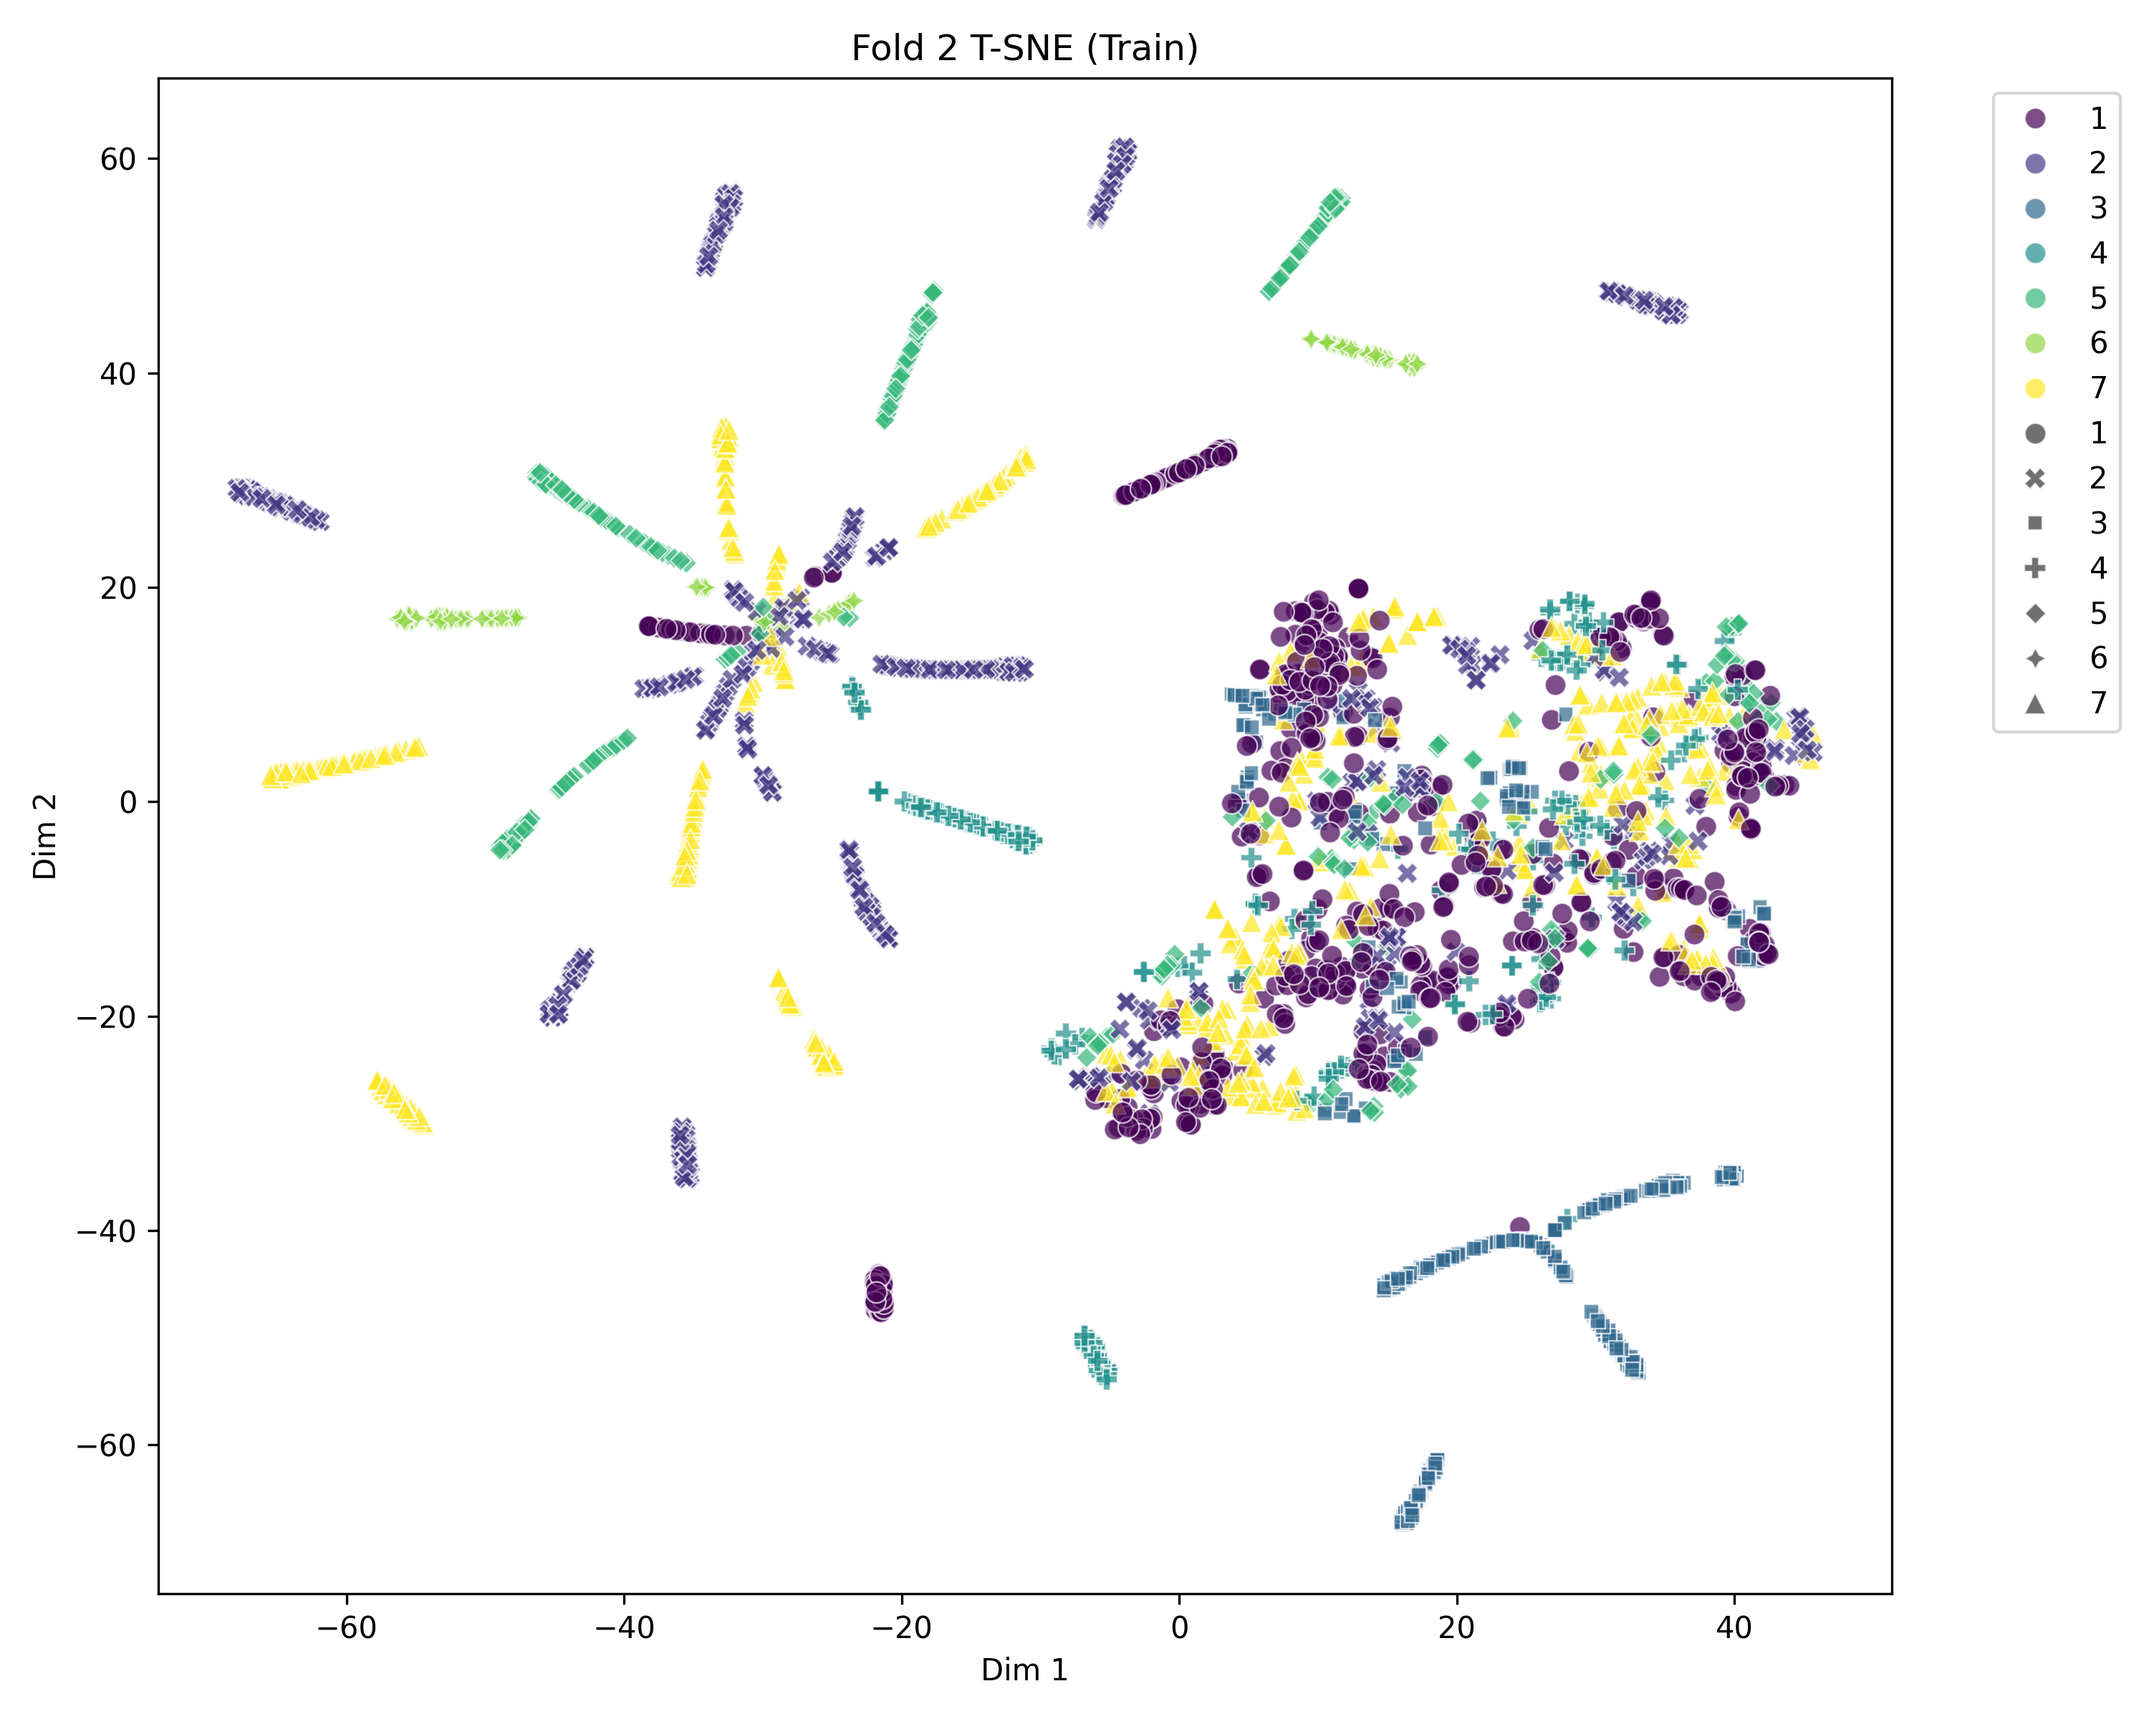
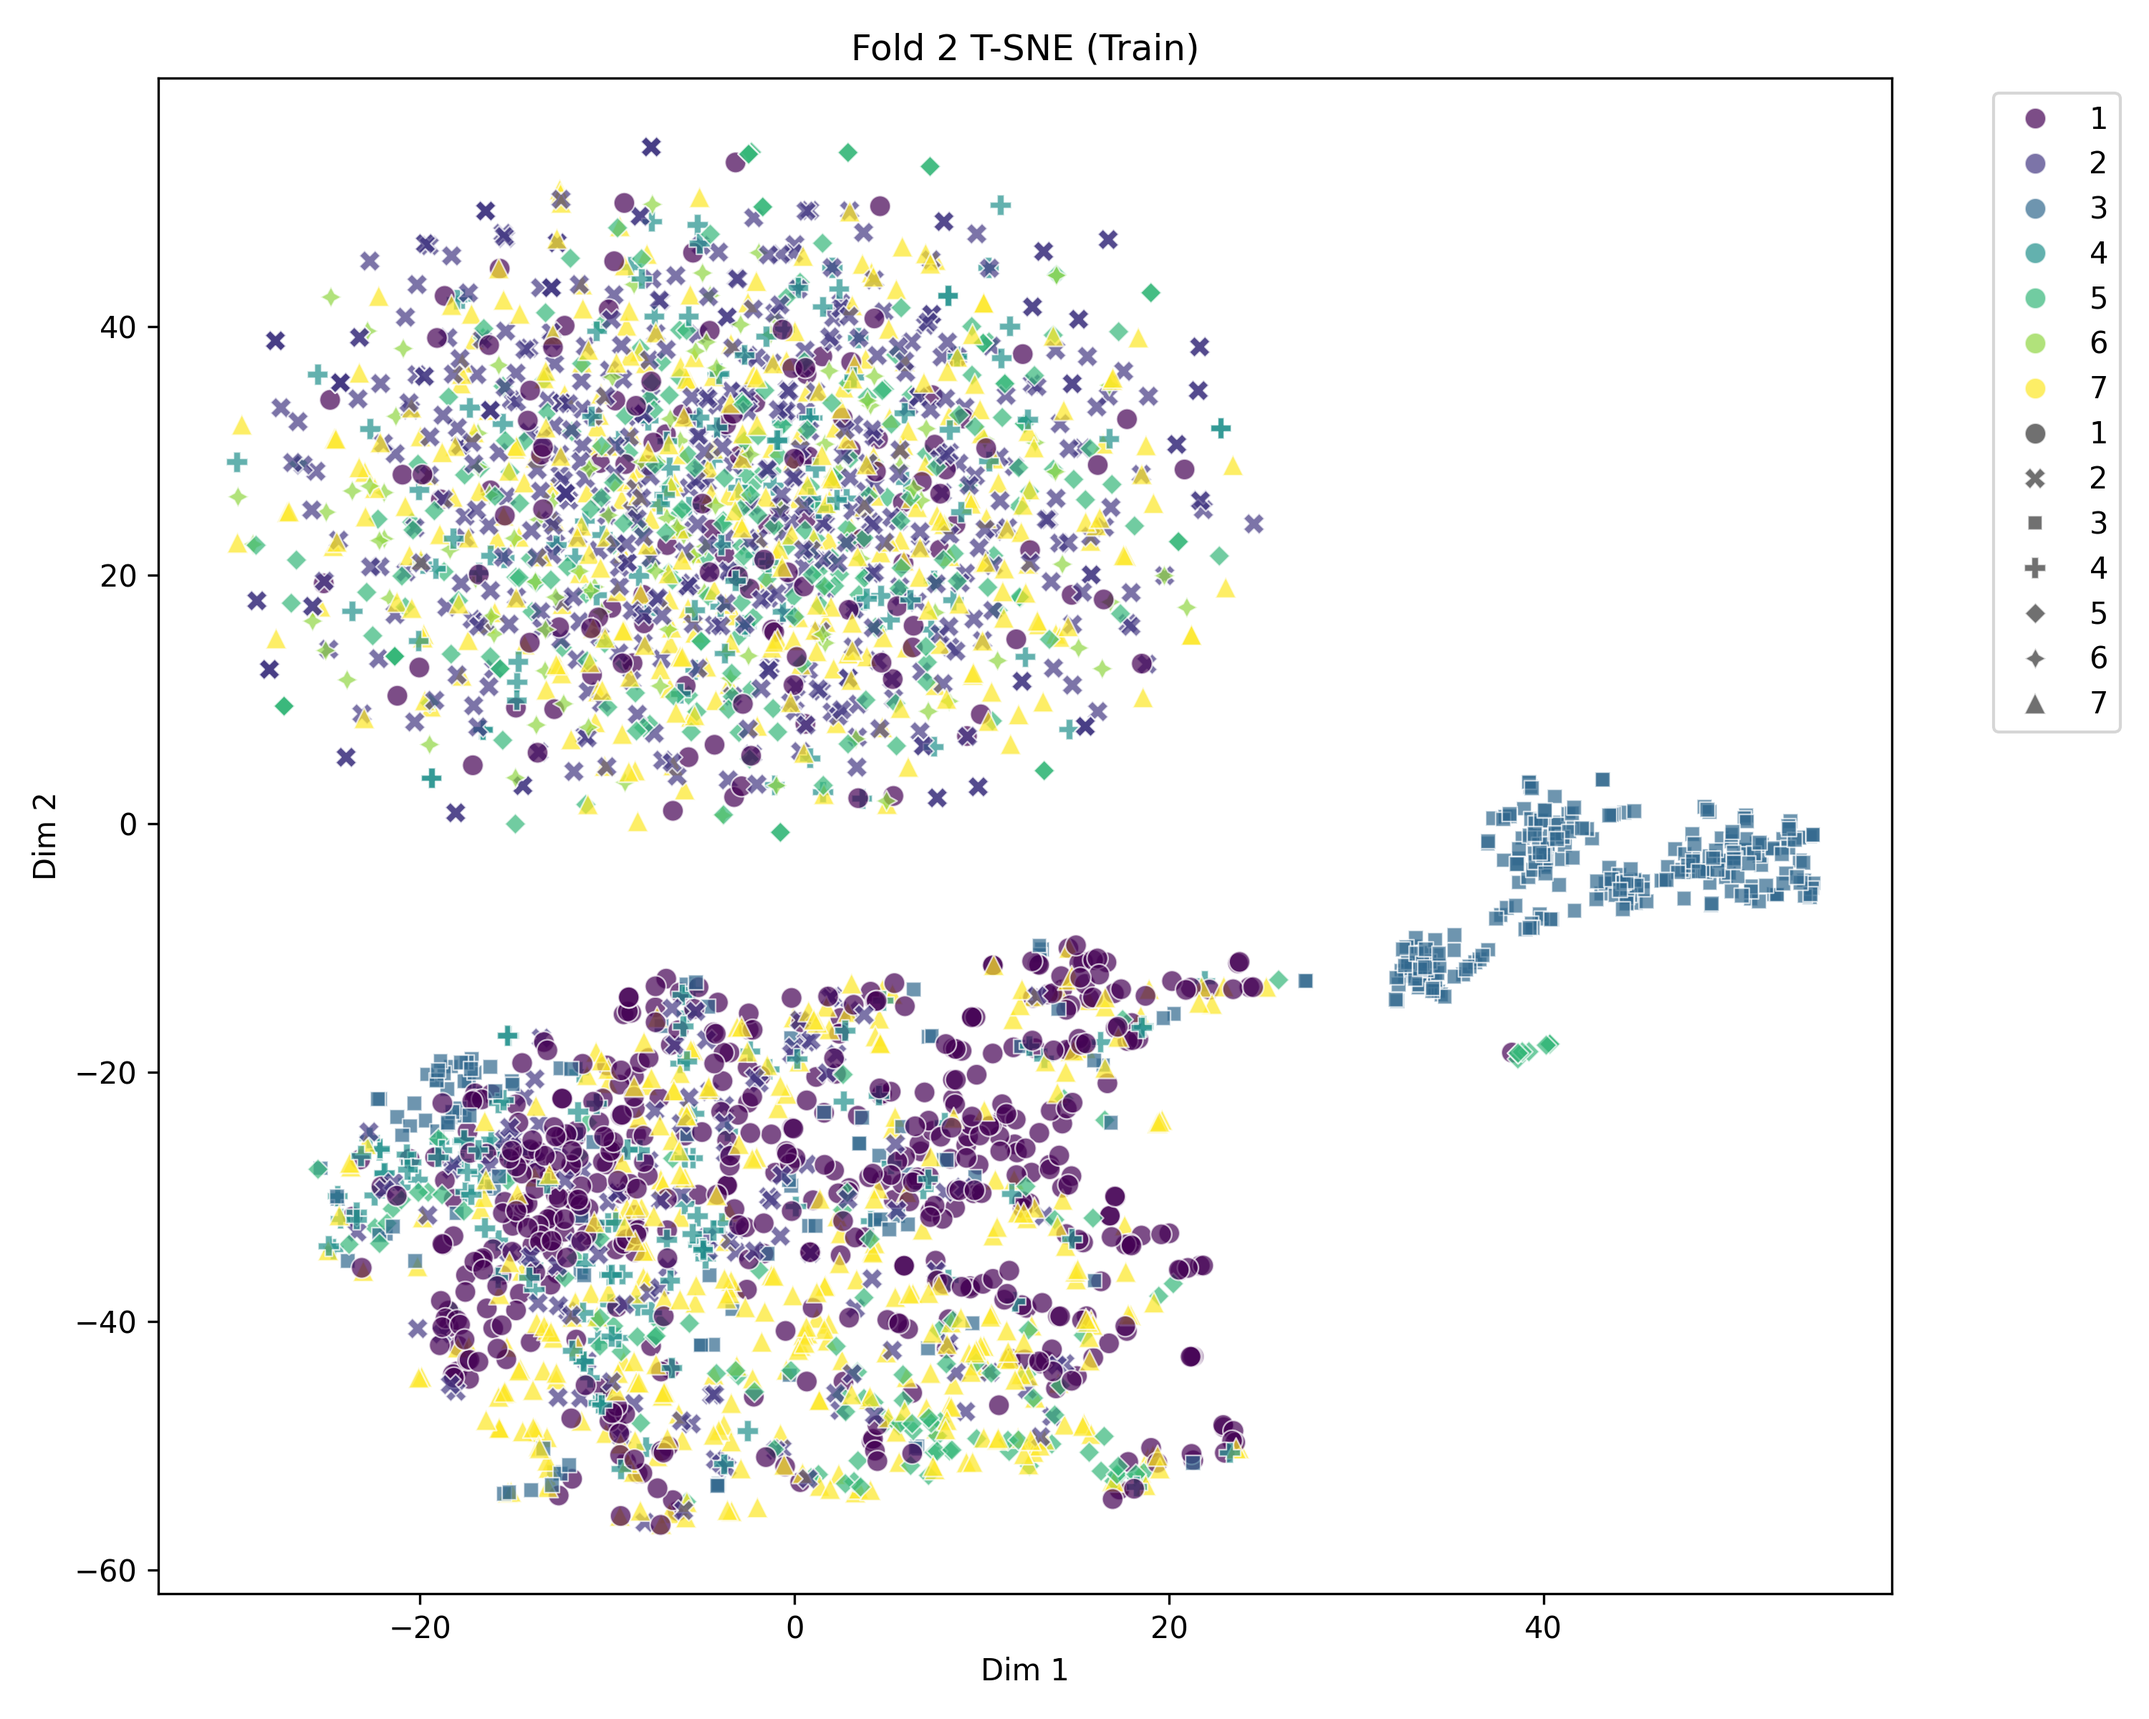
add classifier

diff --git a/ts2vec_modified_pipeline.py b/ts2vec_modified_pipeline.py
@@ -17,6 +17,7 @@ from sklearn.manifold import TSNE
 import seaborn as sns
 import pandas as pd
 from sklearn.preprocessing import StandardScaler
+from ts2vec_skill_classification import SkillLevelClassifier, SkillLevelTrainer
 
 
 def setup_dataset(processed_data_folder):
@@ -171,7 +172,7 @@ def temporal_contrastive_loss(z1, z2):
 
 class TS2Vec:
     """사용자가 데이터를 넣기 쉽도록 만든 래퍼 클래스"""
-    def __init__(self, input_dims, output_dims=320, hidden_dims=64, depth=8, device='cuda'):
+    def __init__(self, input_dims, output_dims=320, hidden_dims=64, depth=10, device='cuda'):
         self.device = device
         self.hidden_dims = hidden_dims
         self.model = DilatedConvEncoder(input_dims, output_dims, hidden_dims, depth).to(device)
@@ -212,8 +213,8 @@ class TS2Vec:
                 
                 # Timestamp Masking 생성 (Bernoulli p=0.5) [cite: 132]
                 
-                mask1 = torch.from_numpy(np.random.binomial(1, 0.3, size=(x1.shape[0], x1.shape[1], 1))).to(self.device).float()
-                mask2 = torch.from_numpy(np.random.binomial(1, 0.3, size=(x2.shape[0], x2.shape[1], 1))).to(self.device).float()
+                mask1 = torch.from_numpy(np.random.binomial(1, 0.5, size=(x1.shape[0], x1.shape[1], 1))).to(self.device).float()
+                mask2 = torch.from_numpy(np.random.binomial(1, 0.5, size=(x2.shape[0], x2.shape[1], 1))).to(self.device).float()
                 
                 # Forward Pass (두 개의 뷰 생성)
                 z1 = self.model(x1, mask1)
@@ -370,15 +371,17 @@ def run_kfold_experiment(dataset, stroke_type, joint_type, body_part, k=5, epoch
         print(f"\n[Step 1] Training TS2Vec (Self-Supervised)...{len(train_data)}")
 
         train_data = np.array(train_data)
-        crop_start = 20
-        crop_end = 130  # 150 - 20
-        trimmed_data = train_data[:, crop_start:crop_end, :]
+        velocity_data = np.diff(train_data, axis=1)
+        acceleration_data = np.diff(velocity_data, axis=1)
         test_data = np.array(test_data)
-        
-        model = TS2Vec(input_dims=input_dim, hidden_dims=hidden_dim, output_dims=output_dim, device=device)
-        model.fit(train_data=trimmed_data, n_epochs=epoch, batch_size=batch_size)
 
-        train_embeddings = model.encode(trimmed_data)
+        train_data = train_data[:, 50:130, :]
+        test_data = test_data[:, 50:130, :]
+
+        model = TS2Vec(input_dims=input_dim, hidden_dims=hidden_dim, output_dims=output_dim, device=device)
+        model.fit(train_data=train_data, n_epochs=epoch, batch_size=batch_size)
+
+        train_embeddings = model.encode(acceleration_data)
         
 
         visualize_embeddings(
@@ -389,6 +392,61 @@ def run_kfold_experiment(dataset, stroke_type, joint_type, body_part, k=5, epoch
             suffix="Train"
         )
 
+        skill_trainer = SkillLevelTrainer(
+            model,
+            SkillLevelClassifier(embedding_dim=hidden_dim, num_classes=7), # num_classes 명시 권장,
+            lr=0.001,
+            device=device
+        )
+
+        test_embeddings = model.encode(test_data)
+
+        for e in range(epoch):
+            loss = skill_trainer.train_epoch(train_embeddings, train_labels, batch_size=batch_size)
+            if (e + 1) % 10 == 0:
+                print(f'  Epoch {e+1}/{epoch}, Classifier Loss: {loss:.4f}')
+        
+        print("\n[Step 3] Evaluating...")
+        results = skill_trainer.evaluate(test_embeddings, test_labels)
+        print(f"Fold {fold_idx+1} Accuracy: {results['accuracy']:.4f}")
+
+        logs.append(results['report'])
+        accumulated_accuracy.append(results['accuracy'])
+    
+    average_accuracy = sum(accumulated_accuracy) / k
+    
+    print(f"\n{'='*30}")
+    print(f"Final Result ({k}-Fold CV)")
+    print(f"Avg Accuracy: {average_accuracy:.4f}")
+    print(f"{'='*30}")
+
+    result_summary = {
+        'experiment': f"{stroke_type}_{joint_type}_{body_part}_kfold",
+        'fold_accuracies': average_accuracy, # 스칼라 값 저장
+        'fold_accuracies_list': accumulated_accuracy, # 상세 기록용 리스트도 저장 추천
+        'log': logs
+    }
+
+    # JSON 누적 저장 로직
+    summary_file_path = os.path.join(output_dir, 'all_results_summary.json')
+    
+    existing_data = []
+    if os.path.exists(summary_file_path):
+        with open(summary_file_path, 'r', encoding='utf-8') as f:
+            try:
+                existing_data = json.load(f)
+                if not isinstance(existing_data, list):
+                    existing_data = [existing_data]
+            except json.JSONDecodeError:
+                existing_data = []
+                
+    existing_data.append(result_summary)
+
+    with open(summary_file_path, 'w', encoding='utf-8') as f:
+        json.dump(existing_data, f, indent=2, ensure_ascii=False)
+
+    print(f"All results saved to {summary_file_path}")
+    return result_summary
 
 def main():
     processed_data_folder = './Processed_Data'
@@ -432,10 +490,10 @@ def main():
                 joint_type=joint_type,
                 body_part=body_part,
                 k=5,
-                epoch=1,
+                epoch=100,
                 batch_size=64,
-                hidden_dim=64,
-                output_dim=64,
+                hidden_dim=128,
+                output_dim=512,
                 device=device,
                 output_dir=output_dir
             )    
